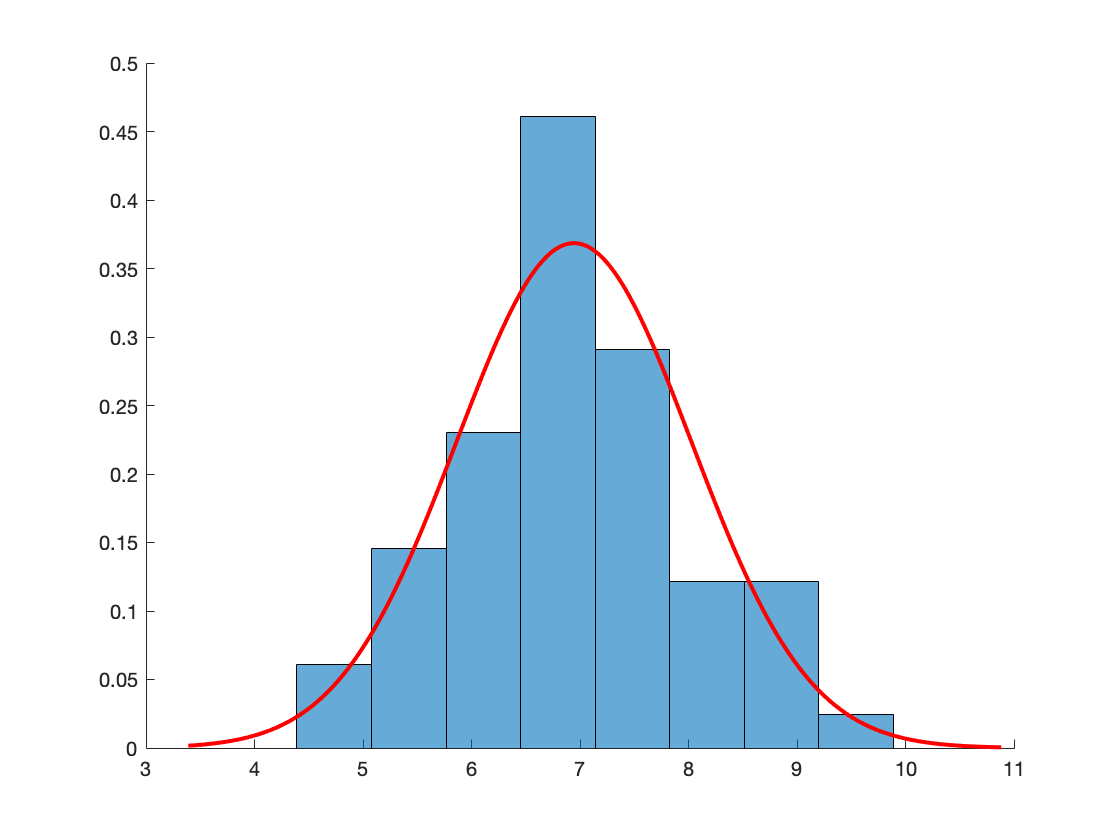
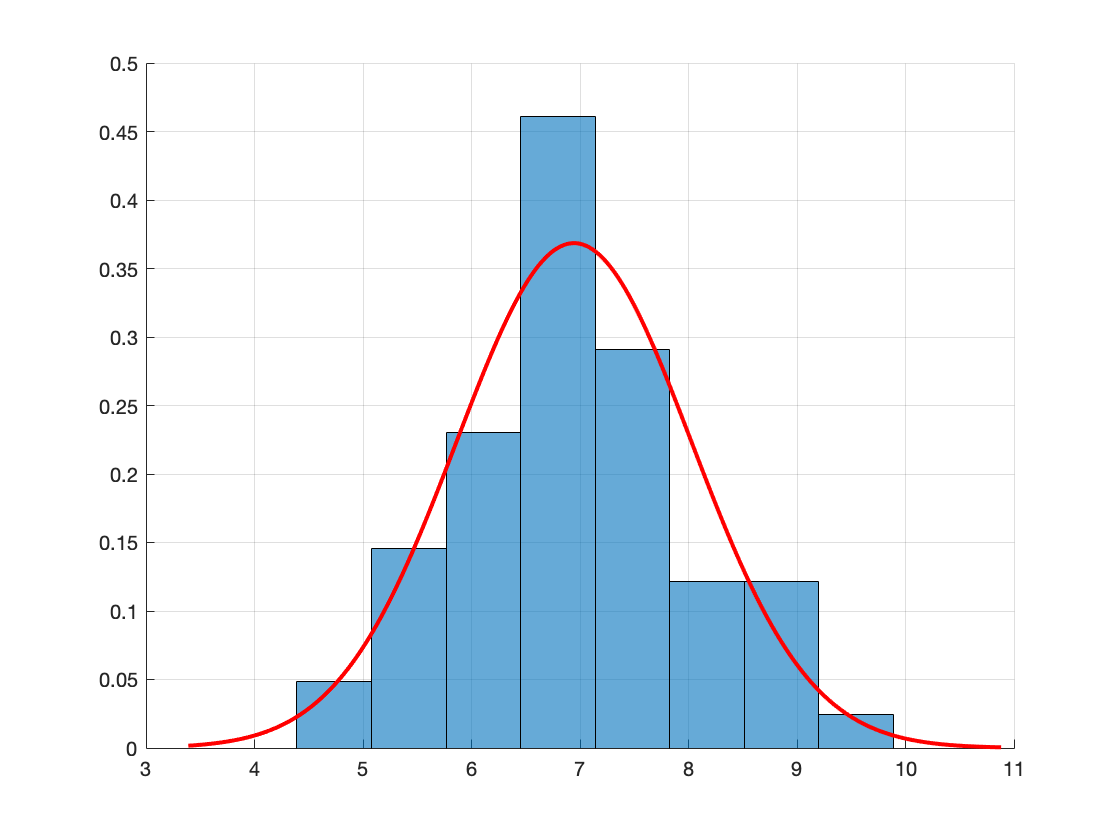
lab1

Changed region(s): [[0.25, 0.7738, 0.3438, 0.8357]]

diff --git a/lab_01/main_my.m b/lab_01/main_my.m
@@ -1,5 +1,7 @@
 X = [7.76,6.34,5.11,7.62,8.84,4.68,8.65,6.90,8.79,6.61,6.62,7.13,6.75,7.28,7.74,7.08,5.57,8.20,7.78,7.92,6.00,4.88,6.75,6.56,7.48,8.51,9.06,6.94,6.93,7.79,5.71,5.93,6.81,5.76,5.88,7.05,7.22,6.67,5.59,6.57,7.28,6.22,6.31,5.51,6.69,7.12,7.40,6.86,7.28,6.82,7.08,7.52,6.81,7.55,4.89,5.48,7.74,5.10,8.17,7.67,7.07,5.80,6.10,7.15,7.88,9.06,6.85,4.88,6.74,8.76,8.53,6.72,7.21,7.42,8.29,8.56,9.25,6.63,7.49,6.67,6.79,5.19,8.20,7.97,8.64,7.36,6.72,5.90,5.53,6.44,7.35,5.18,8.25,5.68,6.29,6.69,6.08,7.42,7.10,7.14,7.10,6.60,6.35,5.99,6.17,9.05,6.01,7.77,6.27,5.81,7.80,9.89,4.39,6.83,6.53,8.15,6.68,6.87,6.31,6.83];
+
 n = length(X);
+fprintf('n = %i\n', n);
 
 
 fprintf('\na)\n');
@@ -16,15 +18,15 @@ fprintf('R = %f\n', R);
 
 fprintf('\nв)\n');
 mu = mean(X);
-s_sqr = var(X); % эквивалентно var(X, 0) (Деленние на N-1), =std(X)^2
+s_sqr = var(X); % эквивалентно var(X, 0); =std(X)^2; Деленние на N-1
 fprintf('mu = %f\n', mu);
 fprintf('s_sqr = %f\n', s_sqr);
 
 
 fprintf('\nг)\n');
-m = floor(log2(length(X))) + 2;
+m = floor(log2(n)) + 2;
 delta = R / m;
-fprintf('m = %i, delta = %f\n', m, delta);
+fprintf('m = %i, delta = %f\n\n', m, delta);
 
 ni_array = zeros([1 m]);
 ai_array = zeros([1 m]);
@@ -40,14 +42,9 @@ ni_array(m) = count_ni(m, ai_array(m), bi_array(i) + 1, X); %правая гра
 
 fprintf('\n');
 for i = 1:m-1
-    fprintf('J%i = [%f; %f)  | ', i, ai_array(i), bi_array(i)); 
+    fprintf('J%i = [%f; %f); n%i = %i\n', i, ai_array(i), bi_array(i), i, ni_array(i)); 
 end
-fprintf('J%i = [%f; %f]\n', m, ai_array(m), bi_array(m)); 
-for i = 1:m-1
-    fprintf('n%i=%2i                      | ', i, ni_array(i));
-end
-fprintf('n%i=%i\n', m, ni_array(m));
-
+fprintf('J%i = [%f; %f]; n%i = %i\n', m, ai_array(m), bi_array(m), m, ni_array(m)); 
 
 
 fprintf('\nд)\n');
@@ -56,38 +53,42 @@ hold on;
 % гистограмма
 h_array = ni_array * (1 / (n * delta));
 ai_array(end+1) = M_max;
-hist = histogram('BinEdges', ai_array,'BinCounts', h_array); %histogram(X, m); 
+hist = histogram('BinEdges', ai_array,'BinCounts', h_array); 
+%histogram(X, m) не производит деления на (n * delta); 
 % график функции плотности распределения вероятностей нормальной случайной 
 % величины с заданным математическим ожиданием и дисперсией 
 sigma = sqrt(s_sqr);
 x_array = (M_min - 1):(sigma / 100):(M_max + 1);
 f = normpdf(x_array, mu, sigma);
 plot(x_array, f, 'r', 'LineWidth', 2);
+grid on;
 
 
 fprintf('\ne)\n');
 figure;
 hold on;
 % график эмпирической функции распределения
-% ecdf_values = ecdf(X); - стандартной функцией
+% можно стандартной функцией: ecdf_values = ecdf(X)
 z_array = unique(X); % отсортированные уникальные значения из X
-z_array(end + 1) = z_array(end) + 1;
+z_array(end + 1) = z_array(end) + 1; % чтобы график не обрывался
 nt_array = zeros([1 length(z_array)]);
 for z_index = 1:length(z_array)
     nt_array(z_index) = count_nt(z_array(z_index), X) / n;
 end
-stairs(z_array, nt_array, 'g', 'LineWidth', 1);
+stairs(z_array, nt_array, 'b');
 % график функции распределения нормальной случайной 
 % величины с заданным математическим ожиданием и дисперсией 
 F = normcdf(x_array, mu, sigma); 
 plot(x_array, F, 'r');
+grid on;
 
 
 function [ni] = count_ni(i, a, b, X)
+    tolerance = 1e-4;
     ni = 0;
     fprintf('J%i-ому интервалу принадлежат значения {', i);
     for x_index = 1:length(X)
-        if (X(x_index) >= a) && (X(x_index) < b)
+        if (X(x_index) - a >= tolerance) && (X(x_index) - b < tolerance)
             fprintf('%f, ', X(x_index));
             ni = ni + 1;
         end
@@ -96,9 +97,10 @@ function [ni] = count_ni(i, a, b, X)
 end
 
 function [nt] = count_nt(t, X)
+    tolerance = 1e-4;
     nt = 0;
     for x_index = 1:length(X)
-        if (X(x_index) < t)
+        if (X(x_index) - t < tolerance)
             nt = nt + 1;
         end
     end
